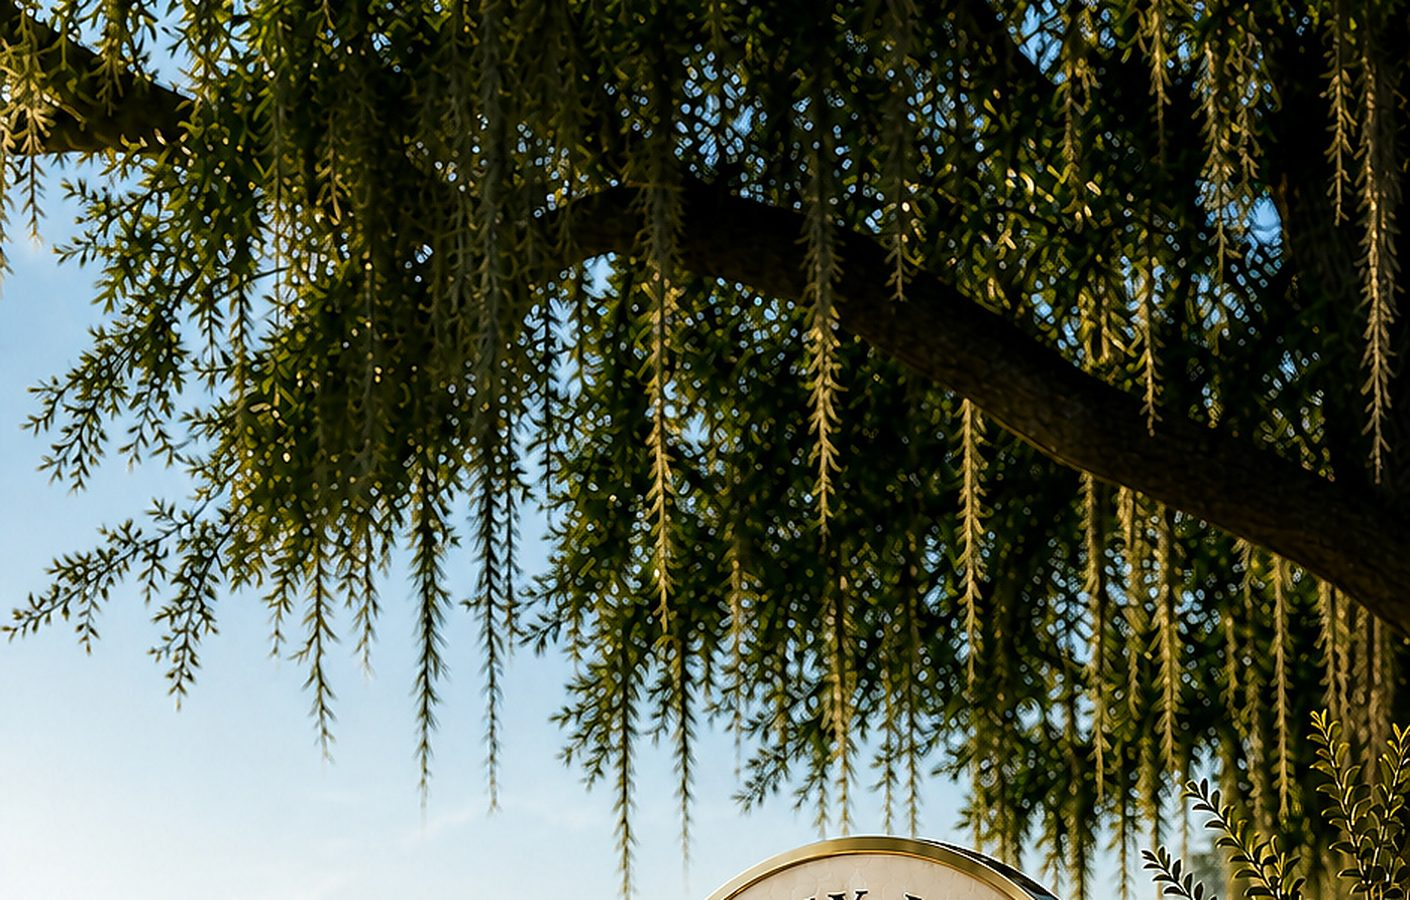
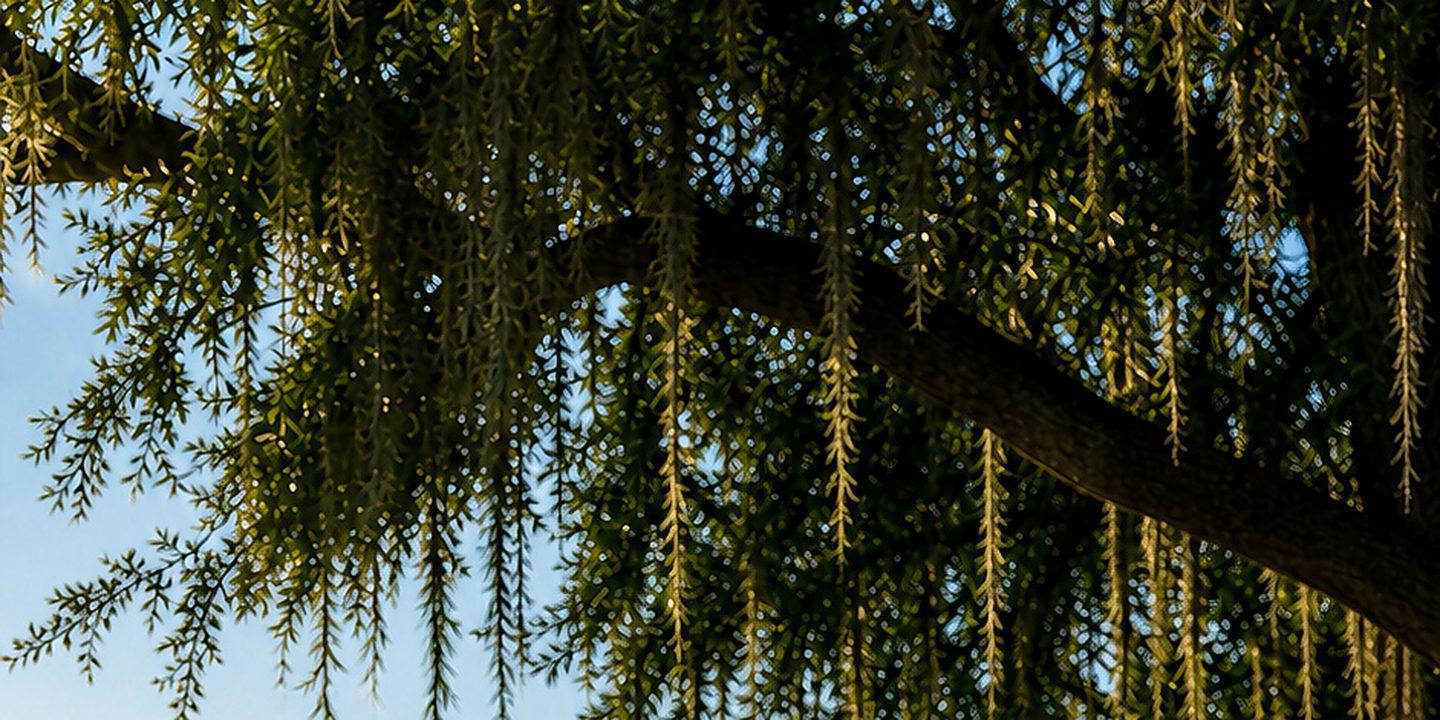
Replace the photographed medallion with a drawn certification concept
The gold seal was an AI-rendered photograph — soft at large sizes, tied
to one lighting setup, and impossible to reuse at credential scale. It
also put a picture of an object where the actual product belongs.

New concept: the certificate is the hero artifact, and the credential
mark is vector.

- Adds an SVG certification stamp (ROUX LIFE / RL / CERTIFIED / 40-HOUR
  PROGRAM) drawn in two cuts — full, and a compact variant that drops the
  micro-lines that go illegible below ~110px. Sharp at any size, themed
  by currentColor, ~1KB.
- The hero right column is now the certificate itself, rendered in
  HTML/CSS on a dark presentation stage: double gold rules, engraved
  typography, credential number, and the stamp. Marked "Specimen" and
  named "Your Name" so it reads as a template, not a fabricated award.
- The certification section trades the seal photo for the mark plus a
  four-field credential summary (program, assessment, delivery,
  credential).

Removes img/medallion.* and img/hero-portrait.*. Recrops lakeside.jpg and
og.jpg above the seal's top edge so no trace of it remains. Net effect is
~1.2MB lighter and one fewer raster dependency in the hero.

Contrast re-verified after the dark stage was introduced: no failures at
either breakpoint, no horizontal overflow, no console errors.

Claude-Session: https://claude.ai/code/session_01F9pzecDH8A6fu6S8ULp2j6

diff --git a/index.html b/index.html
@@ -43,7 +43,7 @@
 }
 
 :root{
-  /* Palette — carried from the Roux Life medallion */
+  /* Palette — ivory, deep forest, antique gold */
   --ink:#151C16;
   --forest:#1F2E23;
   --forest-deep:#16211A;
@@ -302,49 +302,9 @@ p{margin:0}
 .hero-meta li::before{content:"";width:5px;height:5px;border-radius:50%;background:var(--gold-bright)}
 .hero-meta{margin-block-end:0;padding-left:0}
 
-/* Hero figure */
-.hero-figure{position:relative;isolation:isolate}
-.hero-figure .frame{
-  position:relative;overflow:hidden;
-  border-radius:3px;
-  box-shadow:0 30px 70px -30px rgba(21,28,22,.42),0 2px 8px rgba(21,28,22,.06);
-}
-.hero-figure img{
-  width:100%;aspect-ratio:4/5;max-height:min(72vh,660px);
-  object-fit:cover;object-position:center 38%;
-}
-.hero-figure .frame::after{
-  content:"";position:absolute;inset:0;
-  background:linear-gradient(180deg,transparent 52%,rgba(16,24,17,.55));
-  pointer-events:none;
-}
-
-.seal-card{
-  position:absolute;z-index:2;left:-14px;bottom:26px;
-  display:grid;gap:7px;
-  max-width:min(310px,84%);
-  padding:19px 22px 20px;
-  border-left:3px solid var(--gold-bright);
-  background:rgba(22,33,26,.9);
-  backdrop-filter:blur(10px);-webkit-backdrop-filter:blur(10px);
-  box-shadow:0 18px 44px -18px rgba(12,19,14,.6);
-  color:var(--cream);
-}
-.seal-card span{color:var(--gold-soft);font-size:9px;font-weight:700;letter-spacing:.19em;text-transform:uppercase}
-.seal-card strong{font-family:'Fraunces',Georgia,serif;font-weight:400;font-size:20px;line-height:1.15;font-variation-settings:'opsz' 30}
-
 @media (max-width:900px){
   /* Text leads on small screens — the offer should be the first thing read */
   .hero-grid{grid-template-columns:1fr;gap:clamp(32px,6vw,48px)}
-  .hero-figure img{aspect-ratio:4/5;object-position:center 42%}
-  /* Card becomes a caption bar rather than covering the medallion */
-  .seal-card{
-    position:static;max-width:none;
-    background:var(--forest);backdrop-filter:none;-webkit-backdrop-filter:none;
-    box-shadow:none;
-  }
-  .hero-figure .frame{border-radius:3px 3px 0 0}
-  .hero-figure .frame::after{background:linear-gradient(180deg,transparent 62%,rgba(16,24,17,.4))}
 }
 
 /* Proof strip ─────────────────────────────────────────────── */
@@ -424,20 +384,12 @@ p{margin:0}
 @media (max-width:820px){.steps{grid-template-columns:1fr;gap:34px}}
 
 /* Credential ──────────────────────────────────────────────── */
-.credential{display:grid;grid-template-columns:.95fr 1.05fr;gap:clamp(36px,5vw,84px);align-items:center}
-.credential-fig{position:relative}
-.credential-fig picture{position:relative;z-index:1;display:block}
-.credential-fig img{
-  width:100%;aspect-ratio:1;object-fit:cover;
-  border-radius:3px;
-  box-shadow:0 26px 60px -28px rgba(21,28,22,.45);
-}
-.credential-fig img{border:1px solid rgba(156,116,52,.28)}
+.credential{display:grid;grid-template-columns:1fr 1fr;gap:clamp(36px,5vw,80px);align-items:center}
 
 /* ™ must never render at display scale */
 .tm{
   font-family:'Inter',sans-serif;font-style:normal;font-weight:500;
-  font-size:.34em;letter-spacing:.02em;vertical-align:.5em;
+  font-size:.34em;letter-spacing:.02em;vertical-align:.52em;margin-left:.1em;
 }
 .credential h2{font-size:clamp(34px,4.4vw,60px)}
 .credential h2 em{color:var(--moss);font-style:italic;font-weight:300}
@@ -455,10 +407,7 @@ p{margin:0}
 .section--forest .ticks li{color:rgba(251,247,238,.78)}
 .section--forest .ticks li::before{border-color:var(--gold-soft)}
 
-@media (max-width:900px){
-  .credential{grid-template-columns:1fr;gap:38px}
-  .credential-fig{max-width:460px}
-}
+@media (max-width:900px){.credential{grid-template-columns:1fr;gap:38px}}
 
 /* Audience ────────────────────────────────────────────────── */
 .audience{display:grid;grid-template-columns:repeat(3,1fr);gap:clamp(24px,3vw,40px)}
@@ -583,6 +532,120 @@ p{margin:0}
 @media (max-width:820px){.foot{grid-template-columns:1fr 1fr}.foot>div:first-child{grid-column:1/-1}}
 @media (max-width:520px){.foot{grid-template-columns:1fr}}
 
+/* Certification mark ──────────────────────────────────────── */
+.stamp{display:block;width:100%;height:auto;color:var(--gold)}
+.stamp--sm{width:76px}
+.stamp--lg{width:clamp(120px,13vw,164px)}
+
+/* The certificate artifact ────────────────────────────────── */
+/* Dark presentation stage so the cream certificate reads as the object */
+.cert-stage{
+  position:relative;margin:0;overflow:hidden;
+  display:grid;justify-items:center;gap:18px;
+  padding:clamp(26px,3vw,44px) clamp(22px,2.6vw,38px);
+  border:1px solid rgba(126,92,36,.4);border-radius:4px;
+  background:
+    radial-gradient(90% 62% at 50% 34%,rgba(199,154,78,.16),transparent 70%),
+    linear-gradient(162deg,#2A3B2F 0%,#16211A 100%);
+  box-shadow:inset 0 1px 0 rgba(226,189,116,.14);
+}
+
+.cert{
+  position:relative;width:min(430px,100%);
+  padding:clamp(30px,3.4vw,42px) clamp(24px,2.8vw,36px) clamp(24px,2.8vw,32px);
+  background:linear-gradient(176deg,#FFFDF8 0%,#F8F1E4 100%);
+  border:1px solid rgba(126,92,36,.30);
+  box-shadow:
+    inset 0 1px 0 rgba(255,255,255,.9),
+    0 34px 60px -26px rgba(6,11,7,.62),
+    0 4px 14px rgba(6,11,7,.34);
+  transform:rotate(-1.1deg);
+  text-align:center;
+}
+.cert::before,.cert::after{content:"";position:absolute;pointer-events:none}
+.cert::before{inset:9px;border:1px solid rgba(126,92,36,.34)}
+.cert::after{inset:13px;border:1px solid rgba(126,92,36,.15)}
+
+.cert-kicker{
+  color:var(--gold);
+  font-size:9.5px;font-weight:700;letter-spacing:.24em;text-transform:uppercase;
+}
+.cert-brand{
+  margin-top:14px;
+  font-family:'Fraunces',Georgia,serif;font-weight:500;
+  font-size:23px;line-height:1;letter-spacing:.1em;text-transform:uppercase;
+  color:var(--forest-deep);font-variation-settings:'opsz' 60;
+}
+.cert-brand em{
+  display:block;margin-top:8px;
+  color:var(--gold);font-family:'Inter',sans-serif;font-style:normal;
+  font-size:8.5px;font-weight:700;letter-spacing:.36em;
+}
+.cert-rule{
+  width:44px;height:0;margin:18px auto;
+  border:0;border-top:1px solid rgba(126,92,36,.45);
+}
+.cert-line{color:var(--text-mute);font-size:11.5px;font-style:italic;line-height:1.4}
+.cert-name{
+  margin:9px 0;
+  font-family:'Fraunces',Georgia,serif;font-style:italic;font-weight:300;
+  font-size:clamp(31px,3.4vw,39px);line-height:1.05;letter-spacing:-.02em;
+  color:var(--moss);font-variation-settings:'opsz' 72;
+}
+.cert-title{
+  margin-top:9px;
+  font-family:'Fraunces',Georgia,serif;font-weight:400;
+  font-size:clamp(17px,1.7vw,20px);line-height:1.24;letter-spacing:-.01em;
+  color:var(--forest-deep);font-variation-settings:'opsz' 28;
+}
+.cert-foot{
+  display:flex;align-items:center;justify-content:space-between;gap:18px;
+  margin-top:24px;padding-top:18px;
+  border-top:1px solid rgba(126,92,36,.24);
+  text-align:left;
+}
+.cert-foot dl{display:grid;gap:9px;margin:0}
+.cert-foot dt{color:var(--gold);font-size:8px;font-weight:700;letter-spacing:.18em;text-transform:uppercase}
+.cert-foot dd{margin:2px 0 0;color:var(--text-soft);font-size:11.5px;letter-spacing:.04em}
+
+.cert-tag{
+  color:rgba(251,247,238,.62);
+  font-size:10px;font-weight:600;letter-spacing:.17em;text-transform:uppercase;
+}
+
+@media (prefers-reduced-motion:no-preference){
+  @media (hover:hover) and (pointer:fine){
+    .cert{transition:transform 420ms var(--ease-out),box-shadow 420ms var(--ease-out)}
+    .cert-stage:hover .cert{
+      transform:rotate(0deg) translateY(-4px);
+      box-shadow:
+        inset 0 1px 0 rgba(255,255,255,.9),
+        0 44px 74px -26px rgba(6,11,7,.66),
+        0 4px 14px rgba(6,11,7,.34);
+    }
+  }
+}
+
+/* Credential detail ───────────────────────────────────────── */
+.cred-panel{
+  display:grid;gap:26px;
+  padding:clamp(28px,3.4vw,44px);
+  border:1px solid var(--rule);border-radius:4px;
+  background:var(--sand);
+}
+.cred-panel .stamp-wrap{display:flex;align-items:center;gap:20px}
+.cred-panel .stamp-wrap p{
+  color:var(--text-soft);font-size:14.5px;line-height:1.55;max-width:30ch;
+}
+.cred-grid{display:grid;grid-template-columns:repeat(2,1fr);gap:1px;background:var(--rule);border:1px solid var(--rule)}
+.cred-grid div{display:grid;gap:6px;padding:18px 20px;background:var(--paper)}
+.cred-grid dt{color:var(--gold);font-size:9px;font-weight:700;letter-spacing:.17em;text-transform:uppercase}
+.cred-grid dd{margin:0;color:var(--forest);font-size:15px;line-height:1.35}
+@media (max-width:520px){
+  .cred-grid{grid-template-columns:1fr}
+  .cred-panel .stamp-wrap{flex-direction:column;align-items:flex-start;gap:16px}
+}
+
 /* Reveal ──────────────────────────────────────────────────── */
 [data-reveal]{opacity:0;transform:translateY(14px)}
 .js [data-reveal].is-in{
@@ -604,6 +667,29 @@ html:not(.js) [data-reveal]{opacity:1;transform:none}
 
 <body>
 <a class="skip" href="#main">Skip to content</a>
+
+<!-- Roux Life certification mark — drawn, not photographed -->
+<svg width="0" height="0" style="position:absolute" aria-hidden="true" focusable="false">
+  <!-- Compact variant: micro-text is illegible below ~110px, so it drops out -->
+  <symbol id="rl-stamp-sm" viewBox="0 0 140 168">
+    <rect x=".9" y=".9" width="138.2" height="166.2" fill="none" stroke="currentColor" stroke-width="2.4" opacity=".6"/>
+    <rect x="9" y="9" width="122" height="150" fill="none" stroke="currentColor" stroke-width="1.2" opacity=".38"/>
+    <text x="70" y="98" text-anchor="middle" font-family="Fraunces,Georgia,serif" font-size="66" font-weight="400" letter-spacing="1.5" fill="currentColor">RL</text>
+    <line x1="34" y1="116" x2="106" y2="116" stroke="currentColor" stroke-width="1.2" opacity=".55"/>
+    <text x="70" y="141" text-anchor="middle" font-family="Inter,sans-serif" font-size="13" font-weight="700" letter-spacing=".8" fill="currentColor">CERTIFIED</text>
+  </symbol>
+
+  <symbol id="rl-stamp" viewBox="0 0 140 168">
+    <rect x=".9" y=".9" width="138.2" height="166.2" fill="none" stroke="currentColor" stroke-width="1.6" opacity=".6"/>
+    <rect x="7" y="7" width="126" height="154" fill="none" stroke="currentColor" stroke-width=".7" opacity=".38"/>
+    <text x="70" y="33" text-anchor="middle" font-family="Inter,sans-serif" font-size="9" font-weight="700" letter-spacing="2.4" fill="currentColor">ROUX LIFE</text>
+    <line x1="50" y1="43" x2="90" y2="43" stroke="currentColor" stroke-width=".7" opacity=".55"/>
+    <text x="70" y="104" text-anchor="middle" font-family="Fraunces,Georgia,serif" font-size="60" font-weight="400" letter-spacing="1.5" fill="currentColor">RL</text>
+    <line x1="32" y1="120" x2="108" y2="120" stroke="currentColor" stroke-width=".7" opacity=".55"/>
+    <text x="70" y="139" text-anchor="middle" font-family="Inter,sans-serif" font-size="9" font-weight="700" letter-spacing="2.8" fill="currentColor">CERTIFIED</text>
+    <text x="70" y="154" text-anchor="middle" font-family="Inter,sans-serif" font-size="6.6" font-weight="600" letter-spacing="1.5" fill="currentColor" opacity=".8">40-HOUR PROGRAM</text>
+  </symbol>
+</svg>
 
 <header class="site-header" id="siteHeader">
   <div class="wrap hdr">
@@ -665,18 +751,24 @@ html:not(.js) [data-reveal]{opacity:1;transform:none}
         </ul>
       </div>
 
-      <figure class="hero-figure" data-reveal style="--i:2;margin:0">
-        <div class="frame">
-          <picture>
-            <source srcset="/img/hero-portrait.webp" type="image/webp">
-            <img src="/img/hero-portrait.jpg" width="941" height="1672" fetchpriority="high"
-                 alt="The Roux Life Certified coach training medallion resting on a stone ledge beside a still lake at sunrise, framed by Spanish moss.">
-          </picture>
+      <figure class="cert-stage" data-reveal style="--i:2">
+        <div class="cert">
+          <p class="cert-kicker">Certificate of Completion</p>
+          <p class="cert-brand">Roux Life<em>Coach Academy</em></p>
+          <hr class="cert-rule">
+          <p class="cert-line">This certifies that</p>
+          <p class="cert-name">Your Name</p>
+          <p class="cert-line">has completed the</p>
+          <p class="cert-title">40-Hour Professional<br>Life Coach Training</p>
+          <div class="cert-foot">
+            <svg class="stamp stamp--sm" role="img" aria-label="Roux Life Certified mark"><use href="#rl-stamp-sm"></use></svg>
+            <dl>
+              <div><dt>Credential no.</dt><dd>RL-40-0001</dd></div>
+              <div><dt>Awarded</dt><dd>On completion</dd></div>
+            </dl>
+          </div>
         </div>
-        <figcaption class="seal-card">
-          <span>Roux Life Certified™</span>
-          <strong>40-hour distance learning certificate program</strong>
-        </figcaption>
+        <figcaption class="cert-tag">Specimen · Roux Life Certified™</figcaption>
       </figure>
     </div>
   </section>
@@ -801,15 +893,7 @@ html:not(.js) [data-reveal]{opacity:1;transform:none}
   <!-- CREDENTIAL ─────────────────────────────────────────── -->
   <section class="section section--paper" id="credential">
     <div class="wrap credential">
-      <figure class="credential-fig" data-reveal style="margin:0">
-        <picture>
-          <source srcset="/img/medallion.webp" type="image/webp">
-          <img src="/img/medallion.jpg" width="760" height="760" loading="lazy"
-               alt="The Roux Life Certified medallion, engraved: 40-hour coach training, distance learning certificate program.">
-        </picture>
-      </figure>
-
-      <div data-reveal style="--i:1">
+      <div data-reveal>
         <p class="eyebrow">The credential</p>
         <h2>Finish <em>Roux Life Certified<span class="tm">™</span></em></h2>
         <p class="lede" style="margin-top:22px">
@@ -819,9 +903,22 @@ html:not(.js) [data-reveal]{opacity:1;transform:none}
         <ul class="ticks">
           <li>A 40-hour distance learning certificate program</li>
           <li>Assessed on demonstrated skill, not attendance</li>
-          <li>Digital certificate plus the Roux Life Certified™ mark for your site</li>
-          <li>Verifiable completion you can share with prospective clients</li>
+          <li>Individually numbered and verifiable</li>
+          <li>Shareable with prospective clients from day one</li>
         </ul>
+      </div>
+
+      <div class="cred-panel" data-reveal style="--i:1">
+        <div class="stamp-wrap">
+          <svg class="stamp stamp--lg" role="img" aria-label="The Roux Life Certified mark"><use href="#rl-stamp"></use></svg>
+          <p>The Roux Life Certified™ mark is issued to you on completion — for your website, your profile, and your proposals.</p>
+        </div>
+        <dl class="cred-grid">
+          <div><dt>Program</dt><dd>40-hour distance learning</dd></div>
+          <div><dt>Assessment</dt><dd>Competency-based</dd></div>
+          <div><dt>Delivery</dt><dd>100% online, self-paced</dd></div>
+          <div><dt>Credential</dt><dd>Individually numbered</dd></div>
+        </dl>
       </div>
     </div>
   </section>
